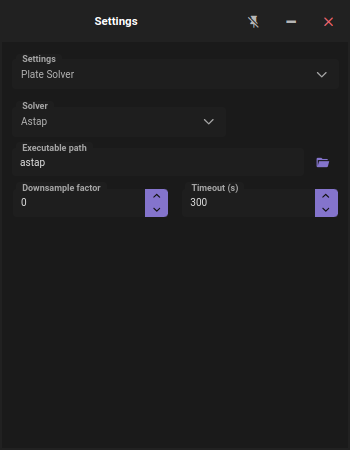
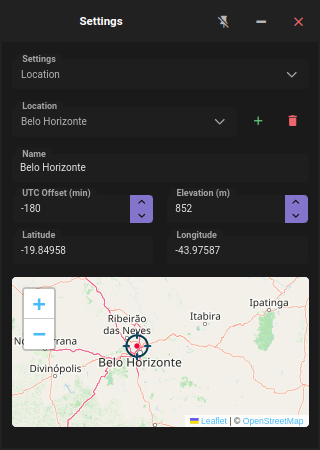
[desktop]: Improve Settings layout

diff --git a/desktop/src/app/settings/settings.component.ts b/desktop/src/app/settings/settings.component.ts
@@ -1,9 +1,8 @@
-import { Component } from '@angular/core'
-import { LocationDialog } from '../../shared/dialogs/location/location.dialog'
+import { Component, OnDestroy } from '@angular/core'
+import { debounceTime, Subject, Subscription } from 'rxjs'
 import { DropdownOptionsPipe } from '../../shared/pipes/dropdown-options.pipe'
 import { ElectronService } from '../../shared/services/electron.service'
 import { PreferenceService } from '../../shared/services/preference.service'
-import { PrimeService } from '../../shared/services/prime.service'
 import { EMPTY_LOCATION, Location } from '../../shared/types/atlas.types'
 import { FrameType, LiveStackerType, LiveStackingRequest } from '../../shared/types/camera.types'
 import { PlateSolverRequest, PlateSolverType } from '../../shared/types/platesolver.types'
@@ -16,7 +15,7 @@ import { AppComponent } from '../app.component'
 	selector: 'neb-settings',
 	templateUrl: './settings.component.html',
 })
-export class SettingsComponent {
+export class SettingsComponent implements OnDestroy {
 	tab: SettingsTabKey = 'LOCATION'
 	readonly tabs: SettingsTabKey[] = ['LOCATION', 'PLATE_SOLVER', 'STAR_DETECTOR', 'LIVE_STACKER', 'STACKER', 'CAPTURE_NAMING_FORMAT']
 
@@ -37,17 +36,20 @@ export class SettingsComponent {
 
 	readonly cameraCaptureNamingFormat = structuredClone(DEFAULT_CAMERA_CAPTURE_NAMING_FORMAT)
 
+	private readonly locationChangePublisher = new Subject<Location>()
+	private readonly locationChangeSubscription?: Subscription
+
 	constructor(
 		app: AppComponent,
 		private readonly preference: PreferenceService,
 		private readonly electron: ElectronService,
-		private readonly prime: PrimeService,
 		private readonly dropdownOptions: DropdownOptionsPipe,
 	) {
 		app.title = 'Settings'
 
 		this.locations = preference.locations.get()
-		this.location = preference.selectedLocation.get(this.locations[0])
+		const selectedLocation = preference.selectedLocation.get(this.locations[0])
+		this.location = this.locations.find(e => e.id === selectedLocation.id) ?? this.locations[0]
 
 		for (const type of dropdownOptions.transform('PLATE_SOLVER')) {
 			this.plateSolvers.set(type, preference.plateSolverRequest(type).get())
@@ -63,42 +65,26 @@ export class SettingsComponent {
 		}
 
 		Object.assign(this.cameraCaptureNamingFormat, preference.cameraCaptureNamingFormatPreference.get(this.cameraCaptureNamingFormat))
+
+		this.locationChangeSubscription = this.locationChangePublisher.pipe(debounceTime(2000)).subscribe((location) => {
+			return this.electron.send('LOCATION.CHANGED', location)
+		})
+	}
+
+	ngOnDestroy() {
+		this.locationChangeSubscription?.unsubscribe()
 	}
 
 	addLocation() {
-		return this.showLocation(structuredClone(EMPTY_LOCATION))
+		const location = structuredClone(EMPTY_LOCATION)
+		location.id = +new Date()
+		this.locations.push(location)
+		this.location = location
+		this.save()
+		this.locationChangePublisher.next(this.location)
 	}
 
-	editLocation() {
-		return this.showLocation(this.location)
-	}
-
-	private async showLocation(location: Location) {
-		const result = await this.prime.open(LocationDialog, { header: 'Location', data: location })
-
-		if (result) {
-			const index = this.locations.findIndex((e) => e.id === result.id)
-
-			if (result.id === 0) {
-				result.id = Date.now()
-			}
-
-			if (index >= 0) {
-				Object.assign(this.locations[index], result)
-				this.location = this.locations[index]
-			} else {
-				this.locations.push(result)
-				this.location = result
-			}
-
-			this.preference.locations.set(this.locations)
-			this.preference.selectedLocation.set(this.location)
-
-			await this.electron.send('LOCATION.CHANGED', this.location)
-		}
-	}
-
-	async deleteLocation() {
+	deleteLocation() {
 		if (this.locations.length > 1) {
 			const index = this.locations.findIndex((e) => e.id === this.location.id)
 
@@ -106,17 +92,16 @@ export class SettingsComponent {
 				this.locations.splice(index, 1)
 				this.location = this.locations[0]!
 
-				this.preference.locations.set(this.locations)
-				this.preference.selectedLocation.set(this.location)
-
-				await this.electron.send('LOCATION.CHANGED', this.location)
+				this.save()
+				this.locationChangePublisher.next(this.location)
 			}
 		}
 	}
 
 	locationChanged() {
-		this.preference.selectedLocation.set(this.location)
-		return this.electron.send('LOCATION.CHANGED', this.location)
+		console.log(this.locations)
+		this.save()
+		this.locationChangePublisher.next(this.location)
 	}
 
 	resetCameraCaptureNamingFormat(type: FrameType) {
@@ -125,6 +110,11 @@ export class SettingsComponent {
 	}
 
 	save() {
+		if (this.location.name) {
+			this.preference.locations.set(this.locations)
+			this.preference.selectedLocation.set(this.location)
+		}
+
 		for (const type of this.dropdownOptions.transform('PLATE_SOLVER')) {
 			this.preference.plateSolverRequest(type).set(this.plateSolvers.get(type))
 		}

diff --git a/desktop/src/app/filterwheel/filterwheel.component.ts b/desktop/src/app/filterwheel/filterwheel.component.ts
@@ -56,8 +56,8 @@ export class FilterWheelComponent implements AfterContentInit, OnDestroy, Pingab
 		return this.filters[this.position - 1]
 	}
 
-	private readonly filterChangedPublisher = new Subject<FilterSlot>()
-	private readonly subscription?: Subscription
+	private readonly filterChangePublisher = new Subject<FilterSlot>()
+	private readonly filterChangeSubscription?: Subscription
 
 	constructor(
 		private readonly app: AppComponent,
@@ -112,7 +112,7 @@ export class FilterWheelComponent implements AfterContentInit, OnDestroy, Pingab
 			}
 		})
 
-		this.subscription = this.filterChangedPublisher.pipe(debounceTime(1500)).subscribe(async (filter) => {
+		this.filterChangeSubscription = this.filterChangePublisher.pipe(debounceTime(1500)).subscribe(async (filter) => {
 			this.savePreference()
 
 			const names = this.filters.map((e) => e.name)
@@ -197,7 +197,7 @@ export class FilterWheelComponent implements AfterContentInit, OnDestroy, Pingab
 	@HostListener('window:unload')
 	ngOnDestroy() {
 		this.pinger.unregister(this)
-		this.subscription?.unsubscribe()
+		this.filterChangeSubscription?.unsubscribe()
 	}
 
 	async ping() {
@@ -300,12 +300,12 @@ export class FilterWheelComponent implements AfterContentInit, OnDestroy, Pingab
 
 	shutterToggled(filter: FilterSlot, event: CheckboxChangeEvent) {
 		this.filters.forEach((e) => (e.dark = !!event.checked && e === filter))
-		this.filterChangedPublisher.next(structuredClone(filter))
+		this.filterChangePublisher.next(structuredClone(filter))
 	}
 
 	filterNameChanged(filter: FilterSlot) {
 		if (filter.name) {
-			this.filterChangedPublisher.next(structuredClone(filter))
+			this.filterChangePublisher.next(structuredClone(filter))
 		}
 	}
 

diff --git a/desktop/src/shared/dialogs/location/location.dialog.ts b/desktop/src/shared/dialogs/location/location.dialog.ts
@@ -1,9 +1,10 @@
-import { AfterViewInit, Component, ViewChild } from '@angular/core'
+import { AfterViewInit, Component, EventEmitter, Input, Optional, Output, ViewChild } from '@angular/core'
 import { DynamicDialogConfig, DynamicDialogRef } from 'primeng/dynamicdialog'
 import { MapComponent } from '../../components/map/map.component'
 import { EMPTY_LOCATION, Location } from '../../types/atlas.types'
 
 @Component({
+	selector: 'neb-location',
 	templateUrl: './location.dialog.html',
 	styleUrls: ['./location.dialog.scss'],
 })
@@ -11,13 +12,23 @@ export class LocationDialog implements AfterViewInit {
 	@ViewChild('map')
 	private readonly map!: MapComponent
 
-	readonly location: Location
+	@Input()
+	readonly location!: Location
+
+	@Output()
+	readonly locationChange = new EventEmitter<Location>()
+
+	get isDialog() {
+		return !!this.dialogRef
+	}
 
 	constructor(
-		private readonly dialogRef: DynamicDialogRef,
-		config: DynamicDialogConfig<Location>,
+		@Optional() private readonly dialogRef?: DynamicDialogRef,
+		@Optional() config?: DynamicDialogConfig<Location>,
 	) {
-		this.location = config.data ?? structuredClone(EMPTY_LOCATION)
+		if (config) {
+			this.location = config.data ?? structuredClone(EMPTY_LOCATION)
+		}
 	}
 
 	ngAfterViewInit() {
@@ -25,6 +36,12 @@ export class LocationDialog implements AfterViewInit {
 	}
 
 	save() {
-		this.dialogRef.close(this.location)
+		this.dialogRef?.close(this.location)
+	}
+
+	locationChanged() {
+		if (!this.isDialog) {
+			this.locationChange.emit(this.location)
+		}
 	}
 }

diff --git a/desktop/src/shared/dialogs/location/location.dialog.html b/desktop/src/shared/dialogs/location/location.dialog.html
@@ -4,7 +4,8 @@
 			<input
 				pInputText
 				class="p-inputtext-sm border-0 w-full"
-				[(ngModel)]="location.name" />
+				[(ngModel)]="location.name"
+				(ngModelChange)="locationChanged()" />
 			<label>Name</label>
 		</p-floatLabel>
 	</div>
@@ -17,6 +18,7 @@
 				[min]="-720"
 				[max]="720"
 				[(ngModel)]="location.offsetInMinutes"
+				(ngModelChange)="locationChanged()"
 				[showButtons]="true"
 				[allowEmpty]="false"
 				scrollableNumber />
@@ -32,6 +34,7 @@
 				[min]="-1000"
 				[max]="10000"
 				[(ngModel)]="location.elevation"
+				(ngModelChange)="locationChanged()"
 				[showButtons]="true"
 				[allowEmpty]="false"
 				scrollableNumber />
@@ -47,6 +50,7 @@
 				[max]="90"
 				[maxFractionDigits]="5"
 				[(ngModel)]="location.latitude"
+				(ngModelChange)="locationChanged()"
 				[allowEmpty]="false"
 				scrollableNumber />
 			<label>Latitude</label>
@@ -61,6 +65,7 @@
 				[max]="180"
 				[maxFractionDigits]="5"
 				[(ngModel)]="location.longitude"
+				(ngModelChange)="locationChanged()"
 				[allowEmpty]="false"
 				scrollableNumber />
 			<label>Longitude</label>
@@ -70,10 +75,14 @@
 		<neb-map
 			#map
 			[(latitude)]="location.latitude"
-			[(longitude)]="location.longitude" />
+			(latitudeChange)="locationChanged()"
+			[(longitude)]="location.longitude"
+			(longitudeChange)="locationChanged()" />
 	</div>
 </div>
-<div class="p-dialog-footer px-0">
+<div
+	*ngIf="isDialog"
+	class="p-dialog-footer px-0">
 	<p-button
 		[disabled]="!location.name"
 		icon="mdi mdi-check"

diff --git a/desktop/src/app/settings/settings.component.html b/desktop/src/app/settings/settings.component.html
@@ -25,7 +25,13 @@
 						dataKey="id"
 						styleClass="p-inputtext-sm border-0"
 						emptyMessage="No location found"
-						[autoDisplayFirst]="false" />
+						[autoDisplayFirst]="false">
+						<ng-template pTemplate="selectedItem">
+							<div class="flex align-items-center gap-2">
+								<span>{{ location.name || '?' }}</span>
+							</div>
+						</ng-template>
+					</p-dropdown>
 					<label>Location</label>
 				</p-floatLabel>
 				<div class="flex gap-1">
@@ -38,14 +44,6 @@
 						tooltipPosition="bottom"
 						(onClick)="addLocation()" />
 					<p-button
-						icon="mdi mdi-pencil"
-						size="small"
-						severity="info"
-						[text]="true"
-						pTooltip="Edit"
-						tooltipPosition="bottom"
-						(onClick)="editLocation()" />
-					<p-button
 						[disabled]="locations.length <= 1"
 						icon="mdi mdi-delete"
 						size="small"
@@ -55,6 +53,11 @@
 						tooltipPosition="bottom"
 						(onClick)="deleteLocation()" />
 				</div>
+			</div>
+			<div class="col-12">
+				<neb-location
+					[location]="location"
+					(locationChange)="locationChanged()" />
 			</div>
 		</div>
 	</div>

diff --git a/desktop/src/shared/components/map/map.component.ts b/desktop/src/shared/components/map/map.component.ts
@@ -22,7 +22,7 @@ export class MapComponent implements AfterViewInit, OnChanges {
 	@Output()
 	readonly longitudeChange = new EventEmitter<number>()
 
-	private map!: L.Map
+	private map?: L.Map
 	private marker?: L.Marker
 
 	private readonly markerIcon = L.icon({
@@ -59,17 +59,21 @@ export class MapComponent implements AfterViewInit, OnChanges {
 	}
 
 	ngOnChanges() {
-		const coordinate: L.LatLngLiteral = { lat: this.latitude, lng: this.longitude }
-		this.map.setView(coordinate)
-		this.updateMarker(coordinate)
+		if (this.map) {
+			const coordinate: L.LatLngLiteral = { lat: this.latitude, lng: this.longitude }
+			this.map.setView(coordinate)
+			this.updateMarker(coordinate)
+		}
 	}
 
 	refresh() {
-		this.map.invalidateSize()
+		this.map?.invalidateSize()
 	}
 
 	private updateMarker(coordinate: L.LatLngExpression) {
-		this.marker?.remove()
-		this.marker = new L.Marker(coordinate, { icon: this.markerIcon }).addTo(this.map)
+		if (this.map) {
+			this.marker?.remove()
+			this.marker = new L.Marker(coordinate, { icon: this.markerIcon }).addTo(this.map)
+		}
 	}
 }

diff --git a/desktop/src/shared/services/browser-window.service.ts b/desktop/src/shared/services/browser-window.service.ts
@@ -129,7 +129,7 @@ export class BrowserWindowService {
 	}
 
 	openSettings(preference: WindowPreference = {}) {
-		Object.assign(preference, { icon: 'settings', width: 350, height: 450, autoResizable: false })
+		Object.assign(preference, { icon: 'settings', width: 320, height: 450, minHeight: 350 })
 		return this.openWindow({ preference, id: 'settings', path: 'settings' })
 	}
 
